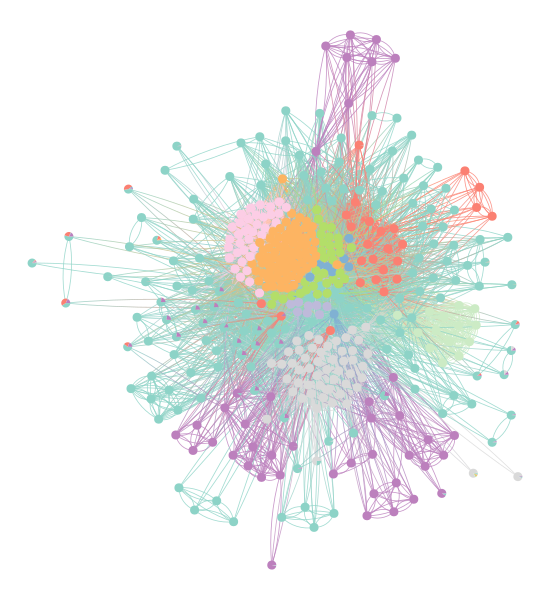
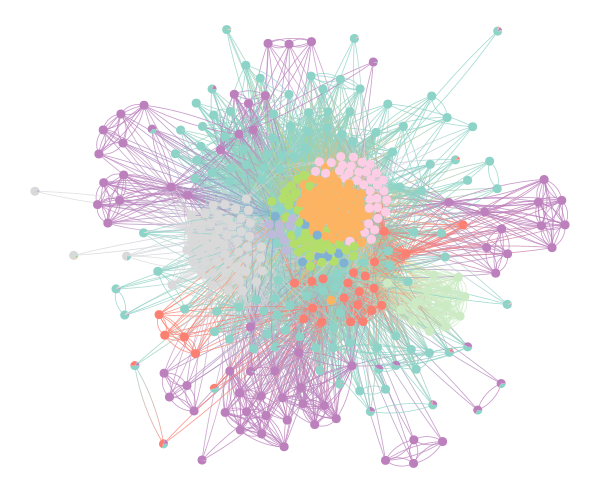
Implement uniform prior on b

diff --git a/model/graph_mcmc.py b/model/graph_mcmc.py
@@ -17,6 +17,7 @@ output_dir = os.path.join(curr_dir, "..", "output")
 
 class Graph_MCMC:
 
+
     def __init__(self):
         """Initialises empty graph"""
         self.G = GT_Graph(directed=False)
@@ -26,6 +27,11 @@ class Graph_MCMC:
         self.vertex_block_counts = None
         self.B_max = None
         self.relabelled_vertices = None
+
+        # treat prior on b as uniform
+        self.entropy_args = {"partition_dl": False}
+        self.mcmc_args = {"entropy_args": self.entropy_args}
+
 
 
     def read_from_edges(self, edges):
@@ -179,7 +185,7 @@ class Graph_MCMC:
         returns partition array
         """
         print("Performing inference...")
-        self.state = minimize_blockmodel_dl(self.G, B_min=B_min, B_max=B_max, deg_corr=degree_corrected, verbose=True)
+        self.state = minimize_blockmodel_dl(self.G, B_min=B_min, B_max=B_max, deg_corr=degree_corrected, mcmc_args=self.mcmc_args, verbose=True)
         print("Done")
         return self.state.get_blocks()
 
@@ -195,7 +201,7 @@ class Graph_MCMC:
             bs.append(s.b.a.copy())
 
         for i in tqdm(range(0, num_iter)):
-                dS, nattempts, nmoves = self.state.mcmc_sweep(niter=1, d=0.00)
+                dS, nattempts, nmoves = self.state.mcmc_sweep(niter=1, d=0.00, entropy_args=self.entropy_args)
                 collect_partitions(self.state)
                 if verbose and i % 10 == 0:
                     print("i: {}, dS: {}, nattempts: {}, nmoves: {}".format(i, dS, nattempts, nmoves))

diff --git a/maier.py b/maier.py
@@ -12,10 +12,10 @@ def run():
     graph.add_ego_node()
 
     graph.partition(B_min=4, B_max=20)
-    graph.mcmc(1000, verbose=True)
+    graph.mcmc(1000, verbose=False)
     graph.draw("maier-fb.png")
 
-    classifier = graph.sample_classifier_marginals(2500, step_scaling=0.01, verbose=True)
+    classifier = graph.sample_classifier_marginals(2500, step_scaling=0.01, verbose=False)
 
     names = graph.get_feature_names()
 

diff --git a/law.py b/law.py
@@ -8,6 +8,8 @@ def run():
     #graph.read_from_gt("cond-mat")
     graph.read_from_ns(dataset)
     graph.remove_property("_pos")
+    graph.remove_property("name")
+    graph.remove_property("nodeAge")
     graph.convert_props_to_flags()
     #graph.filter_edges("layer", 3) # 1: coworkers, 2: friendship, 3: advice
 
